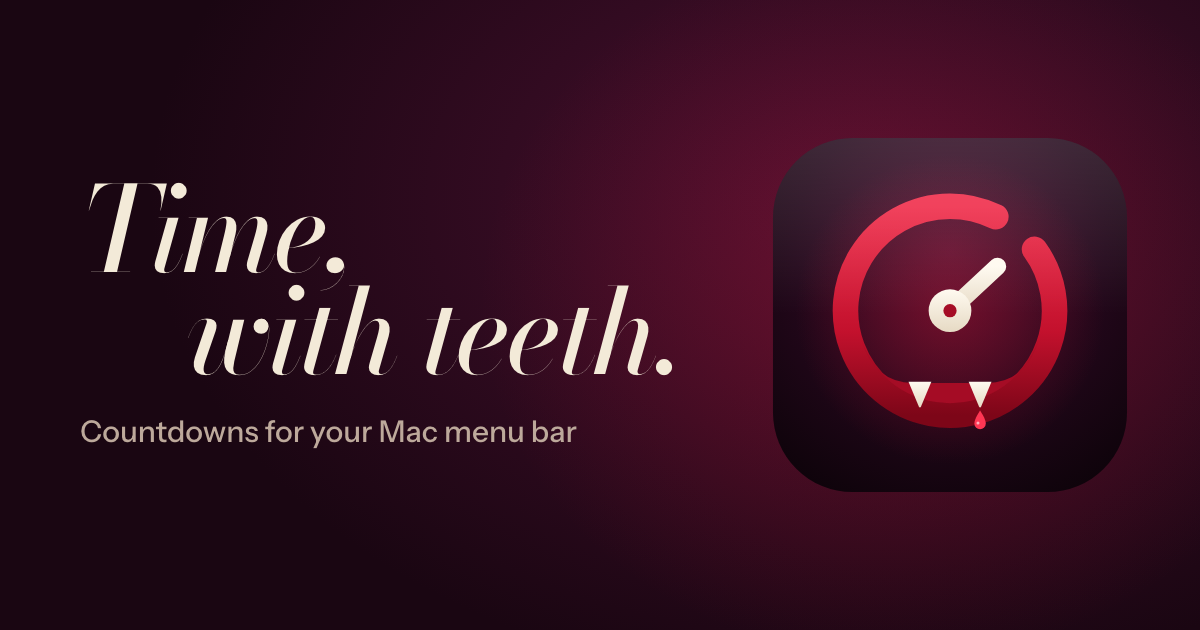
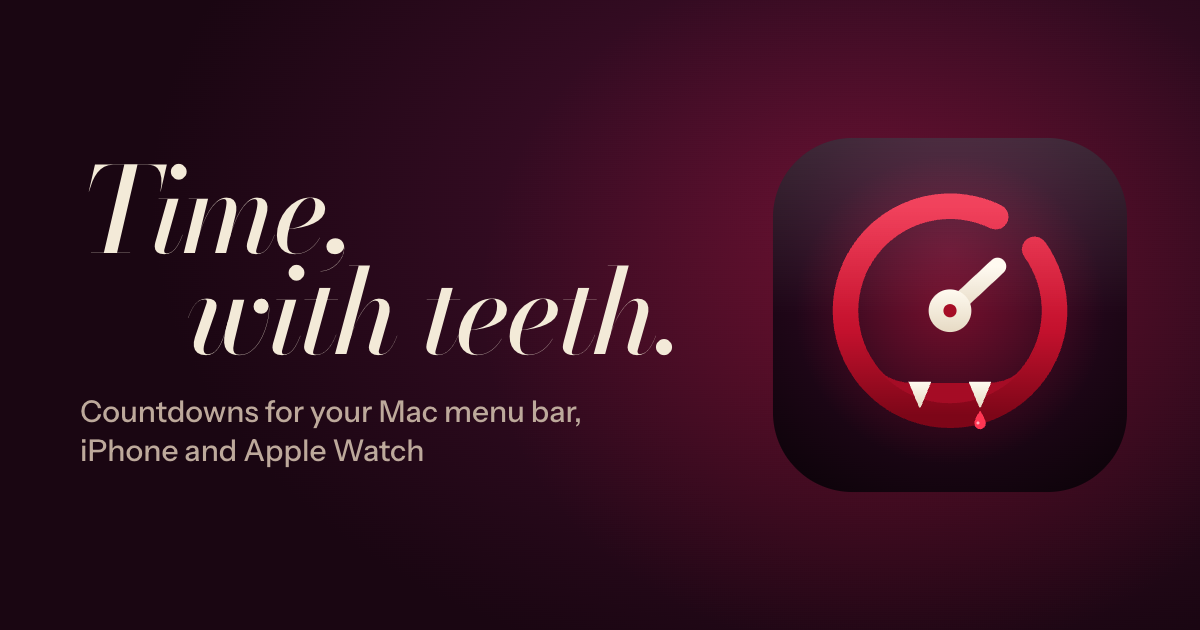
Mention iPhone in the social preview image

Changed region(s): [[0.0617, 0.2413, 0.5858, 0.6032], [0.0617, 0.6333, 0.4933, 0.754]]

diff --git a/site/_src/og.html b/site/_src/og.html
@@ -6,4 +6,4 @@ h1{font-family:var(--display);font-style:italic;font-weight:500;font-size:118px;
 h1 span{display:block;padding-left:.9em}
 p{font:500 30px/1.3 var(--text);color:#bda99b;margin:0}
 img{position:absolute;right:30px;top:95px;width:440px;height:440px}
-</style></head><body><div><h1>Time,<span>with teeth.</span></h1><p>Countdowns for your Mac menu bar</p></div><img src="../assets/app-icon.svg"></body></html>
+</style></head><body><div><h1>Time,<span>with teeth.</span></h1><p>Countdowns for your Mac menu bar,<br>iPhone and Apple Watch</p></div><img src="../assets/app-icon.svg"></body></html>
